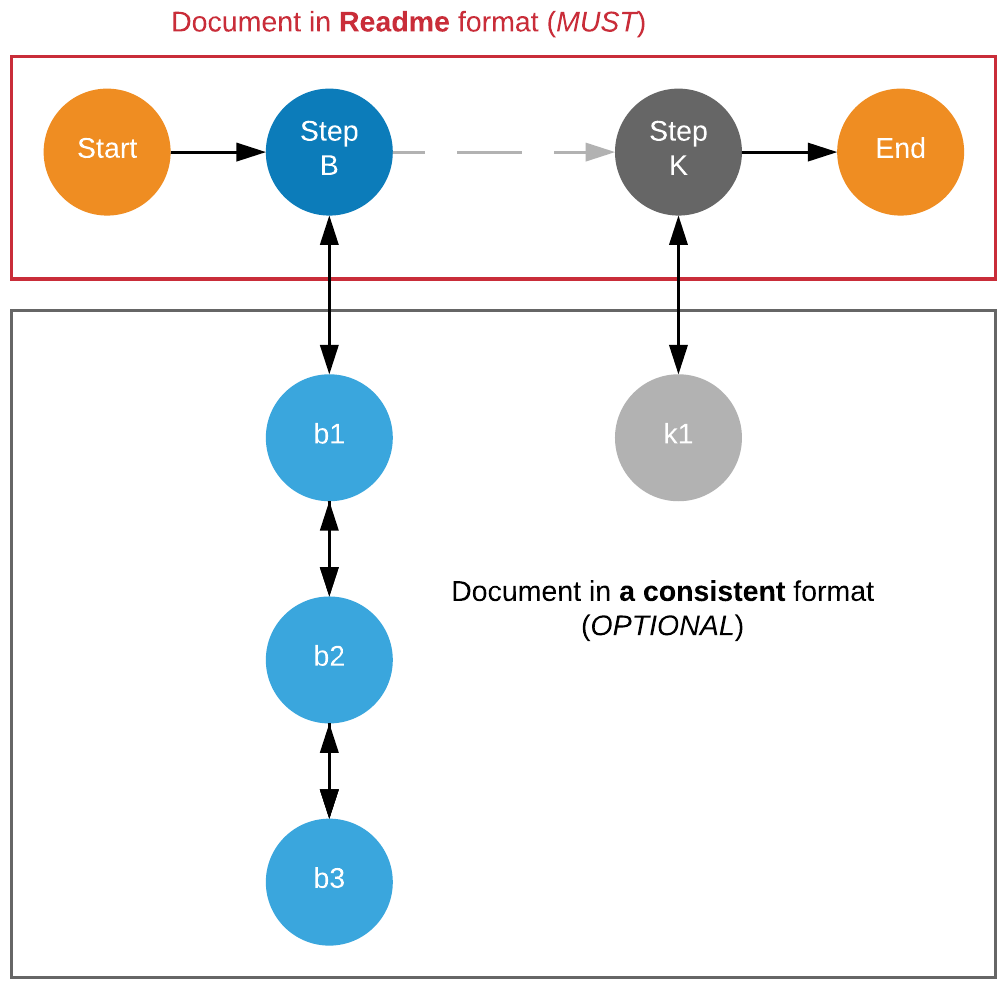
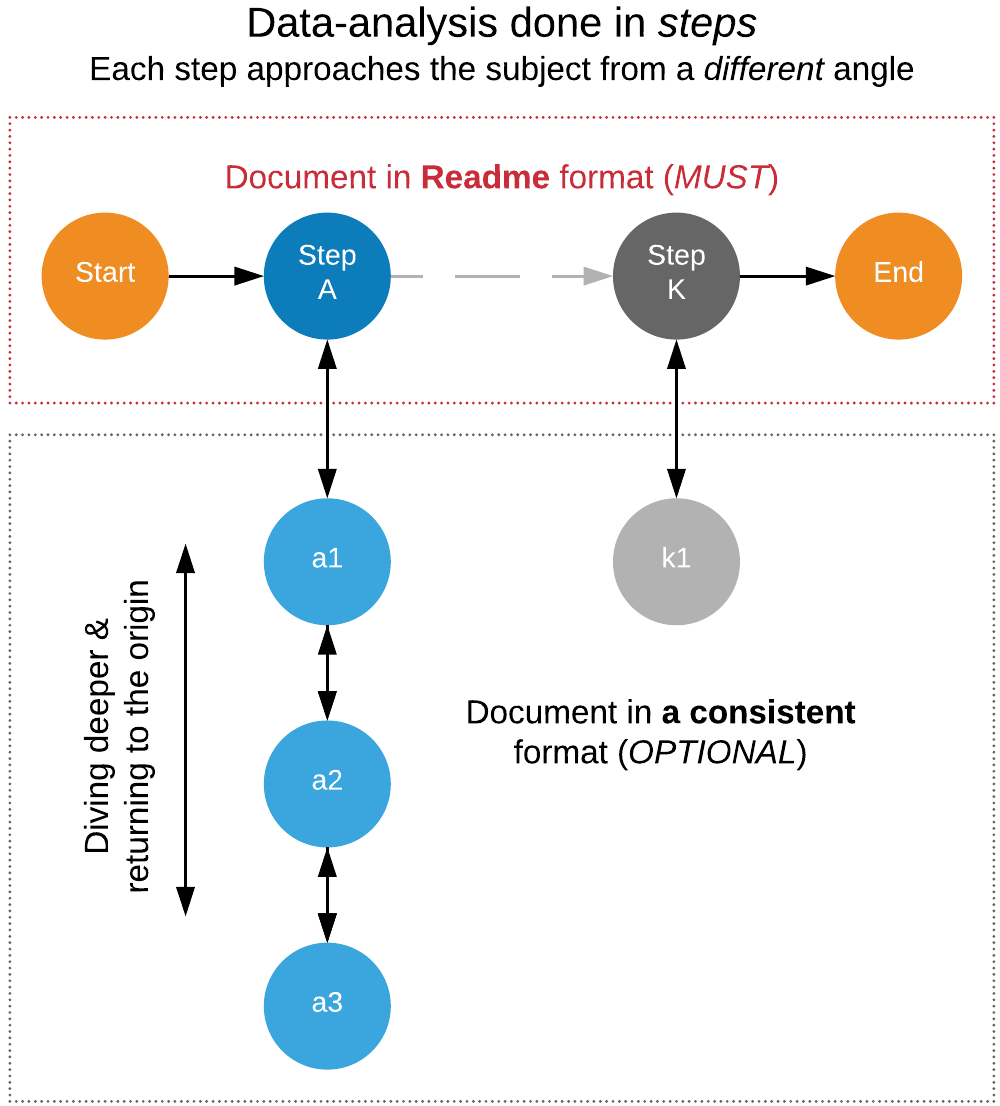
minor; edited img for RDA

diff --git a/1-general.md b/1-general.md
@@ -4,9 +4,9 @@
 
 ### Write down your own recipes, share them with others, collect feedback, and reflect
 This exercise, which should in fact be done by almost all working members of the society, has the following benefits:
-1. establishes transparency in how you operate
-1. prevents you from forgetting hard-learned lessons
-1. provides others with an opportunity to learn from your practices
+* establishes transparency in how you operate
+* prevents you from forgetting hard-learned lessons
+* provides others with an opportunity to learn from your practices
 
 ### Start documentation from the beginning
 Do not wait to document until you have something to show for others.
@@ -27,7 +27,7 @@ Solution? — README files.
 
 Why? — Because they are concise, easy to read, and _relatively_ easy to create. Besides, we need only _one_ of them for the whole project.
 
-What do we record on them? — As depicted on the following figure, analyses -- iterative or linear -- comprise a sequence of distinct exploration tasks (*Step B & K*), each of which also comprise a sequence of interrelated subtasks (*b1, b2, ...*).
+What do we record on them? — As depicted on the following figure, analyses -- iterative or linear -- comprise a sequence of distinct exploration tasks (*Step A, ..., K*), each of which also comprise a sequence of interrelated subtasks (*a1, a2, ...*).
 
 ![how-to-document](images/how-to-document-w500px.png)
 
@@ -49,13 +49,13 @@ At worst, you build momentum in your work and get familiar with the contents, qu
 Outputs of a data analyst are:
 1. A logically and numerically sound analysis
 2. A short list of *call-to-action* items, each of which is
-+ easy-to-understand
-+ realistic
-+ consistent with the client's existing strategy -- *at least to some degree*
+    + easy-to-understand
+    + realistic
+    + consistent with the client's existing strategy -- *at least to some degree*
 3. A seat on the table where
-+ proposed *call-to-action* items will be prioritized
-+ execution plans will be created
-+ execution status will be tracked
-+ results will be evaluated
+    + proposed *call-to-action* items will be prioritized
+    + execution plans will be created
+    + execution status will be tracked
+    + results will be evaluated
 
 TODO: explain the purpose of (3)
